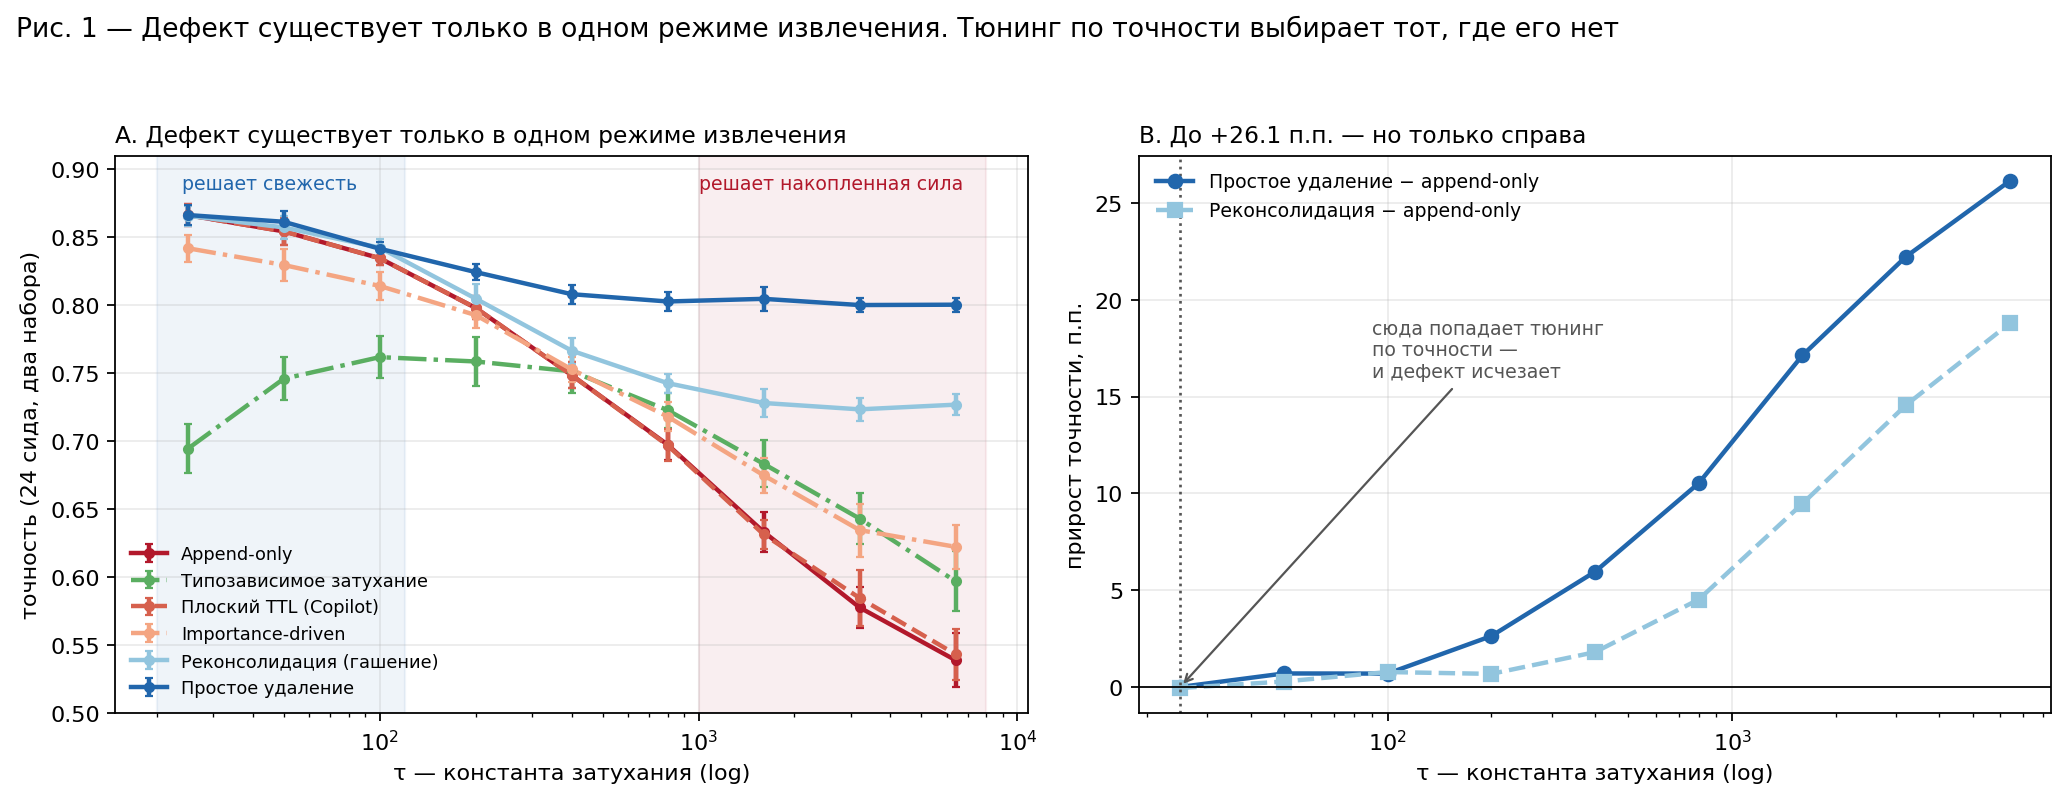
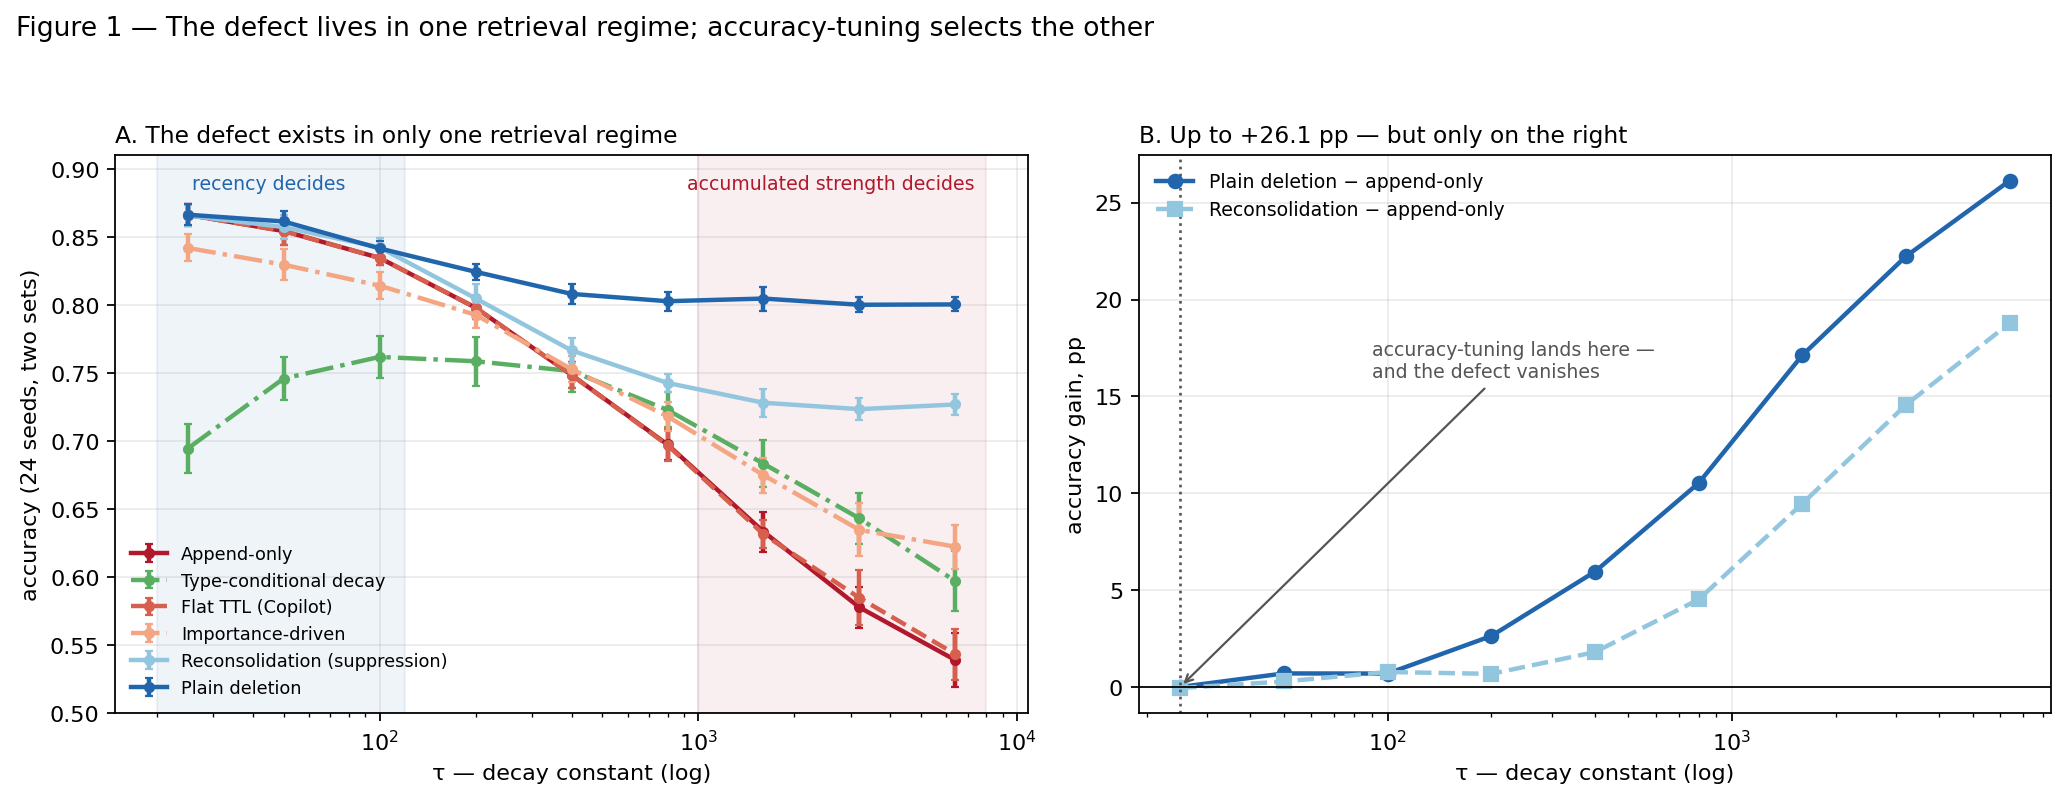
Add files via upload

diff --git a/regime_plot.py b/regime_plot.py
@@ -4,11 +4,11 @@ import matplotlib.pyplot as plt
 
 d = json.load(open("regimes.json")); TAUS = d["taus"]; D = d["data"]
 STY = {"append_only": ("#b2182b", "-", "Append-only"),
-       "type_aware": ("#5aae61", "-.", "Типозависимое затухание"),
-       "flat_ttl": ("#d6604d", "--", "Плоский TTL (Copilot)"),
+       "type_aware": ("#5aae61", "-.", "Type-conditional decay"),
+       "flat_ttl": ("#d6604d", "--", "Flat TTL (Copilot)"),
        "importance": ("#f4a582", "-.", "Importance-driven"),
-       "reconsolidation_only": ("#92c5de", "-", "Реконсолидация (гашение)"),
-       "hard_overwrite": ("#2166ac", "-", "Простое удаление")}
+       "reconsolidation_only": ("#92c5de", "-", "Reconsolidation (suppression)"),
+       "hard_overwrite": ("#2166ac", "-", "Plain deletion")}
 
 fig, ax = plt.subplots(1, 2, figsize=(13, 4.8))
 
@@ -17,35 +17,35 @@ for p, (c, ls, lab) in STY.items():
     e = [D[p][str(t)]["acc_std"] for t in TAUS]
     ax[0].errorbar(TAUS, y, yerr=e, fmt="o" + ls, color=c, lw=2, ms=4,
                    capsize=2, label=lab)
-ax[0].set_xscale("log"); ax[0].set_xlabel("τ — константа затухания (log)")
-ax[0].set_ylabel("точность (24 сида, два набора)")
+ax[0].set_xscale("log"); ax[0].set_xlabel("τ — decay constant (log)")
+ax[0].set_ylabel("accuracy (24 seeds, two sets)")
 ax[0].axvspan(20, 120, color="#2166ac", alpha=.07)
 ax[0].axvspan(1000, 8000, color="#b2182b", alpha=.07)
-ax[0].text(45, .885, "решает свежесть", fontsize=8.5, color="#2166ac", ha="center")
-ax[0].text(2600, .885, "решает накопленная сила", fontsize=8.5, color="#b2182b", ha="center")
+ax[0].text(45, .885, "recency decides", fontsize=8.5, color="#2166ac", ha="center")
+ax[0].text(2600, .885, "accumulated strength decides", fontsize=8.5, color="#b2182b", ha="center")
 ax[0].set_ylim(.50, .91)
 ax[0].grid(alpha=.25); ax[0].legend(fontsize=8, frameon=False, loc="lower left")
-ax[0].set_title("A. Дефект существует только в одном режиме извлечения",
+ax[0].set_title("A. The defect exists in only one retrieval regime",
                 fontsize=10.5, loc="left")
 
 gap_ho = [D["hard_overwrite"][str(t)]["acc"] - D["append_only"][str(t)]["acc"] for t in TAUS]
 gap_rc = [D["reconsolidation_only"][str(t)]["acc"] - D["append_only"][str(t)]["acc"] for t in TAUS]
 ax[1].plot(TAUS, [100 * g for g in gap_ho], "o-", color="#2166ac", lw=2,
-           label="Простое удаление − append-only")
+           label="Plain deletion − append-only")
 ax[1].plot(TAUS, [100 * g for g in gap_rc], "s--", color="#92c5de", lw=2,
-           label="Реконсолидация − append-only")
+           label="Reconsolidation − append-only")
 ax[1].axhline(0, color="k", lw=.8)
 ax[1].axvline(25, color="#555", ls=":", lw=1.2)
-ax[1].annotate("сюда попадает тюнинг\nпо точности —\nи дефект исчезает",
+ax[1].annotate("accuracy-tuning lands here —\nand the defect vanishes",
                xy=(25, 0), xytext=(90, 16), fontsize=8.5, color="#555",
                arrowprops=dict(arrowstyle="->", color="#555"))
-ax[1].set_xscale("log"); ax[1].set_xlabel("τ — константа затухания (log)")
-ax[1].set_ylabel("прирост точности, п.п.")
+ax[1].set_xscale("log"); ax[1].set_xlabel("τ — decay constant (log)")
+ax[1].set_ylabel("accuracy gain, pp")
 ax[1].grid(alpha=.25); ax[1].legend(fontsize=8.5, frameon=False, loc="upper left")
-ax[1].set_title(f"B. До +{100*max(gap_ho):.1f} п.п. — но только справа",
+ax[1].set_title(f"B. Up to +{100*max(gap_ho):.1f} pp — but only on the right",
                 fontsize=10.5, loc="left")
 
-fig.suptitle("Рис. 1 — Дефект существует только в одном режиме извлечения. Тюнинг по точности выбирает тот, где его нет",
+fig.suptitle("Figure 1 — The defect lives in one retrieval regime; accuracy-tuning selects the other",
              fontsize=12, y=1.04, x=.01, ha="left")
 fig.tight_layout(); fig.savefig("fig1_regimes.png", dpi=160, bbox_inches="tight")
 print(f"ok | max gap hard_overwrite {100*max(gap_ho):+.1f} pp, reconsolidation {100*max(gap_rc):+.1f} pp")
